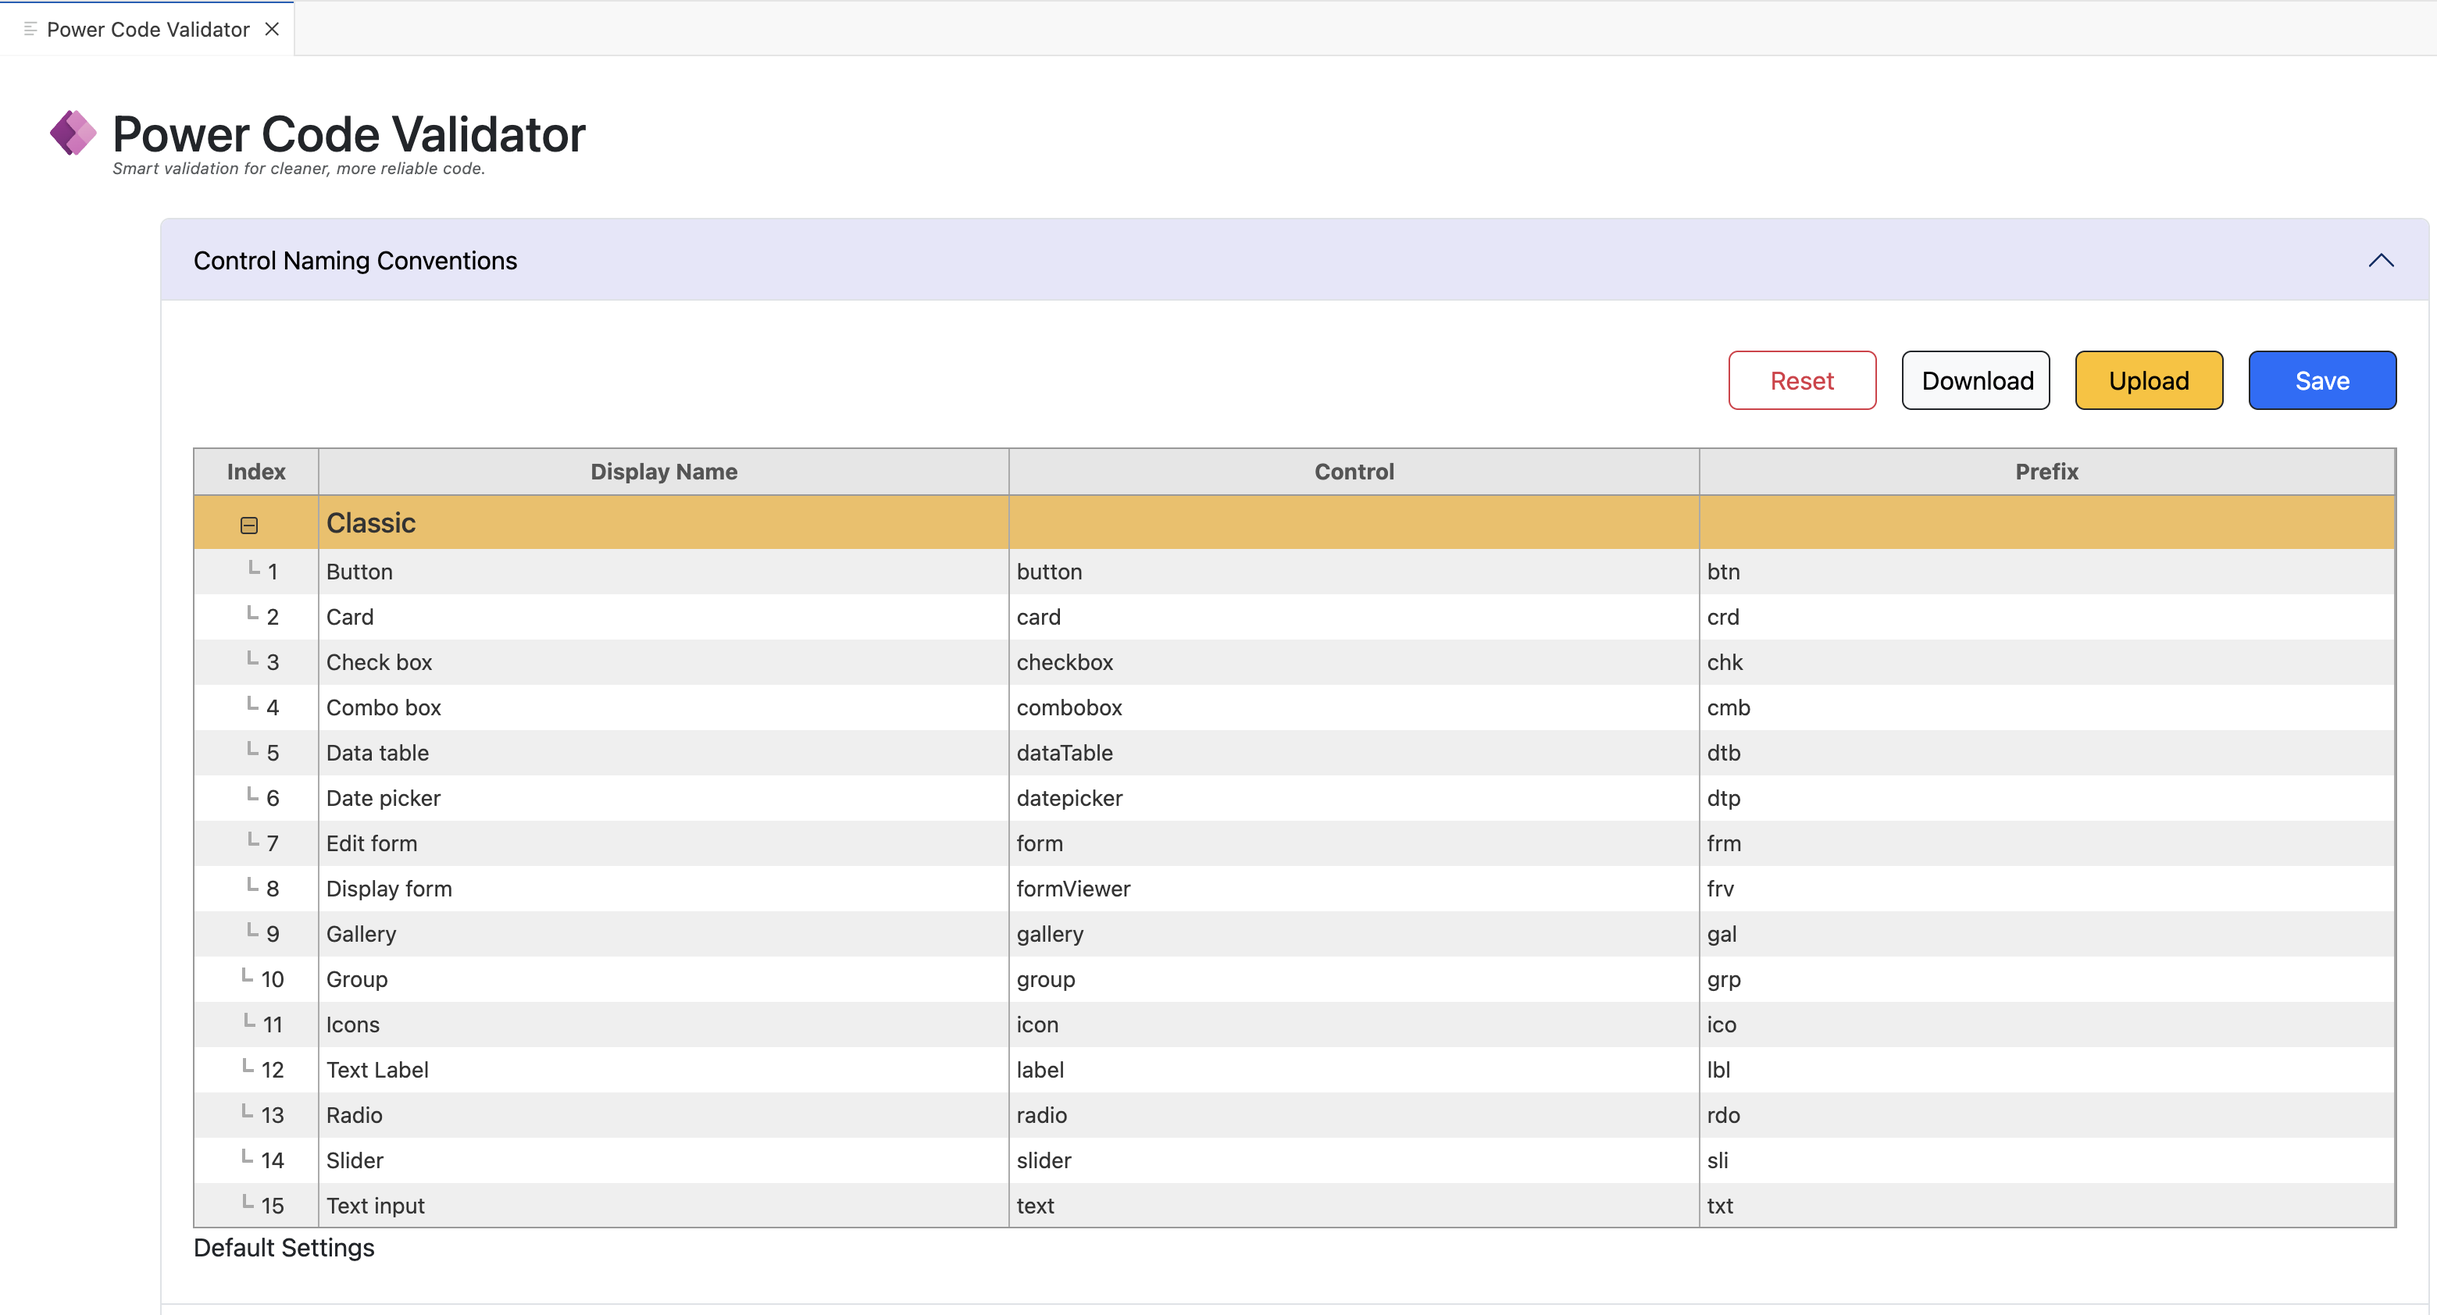
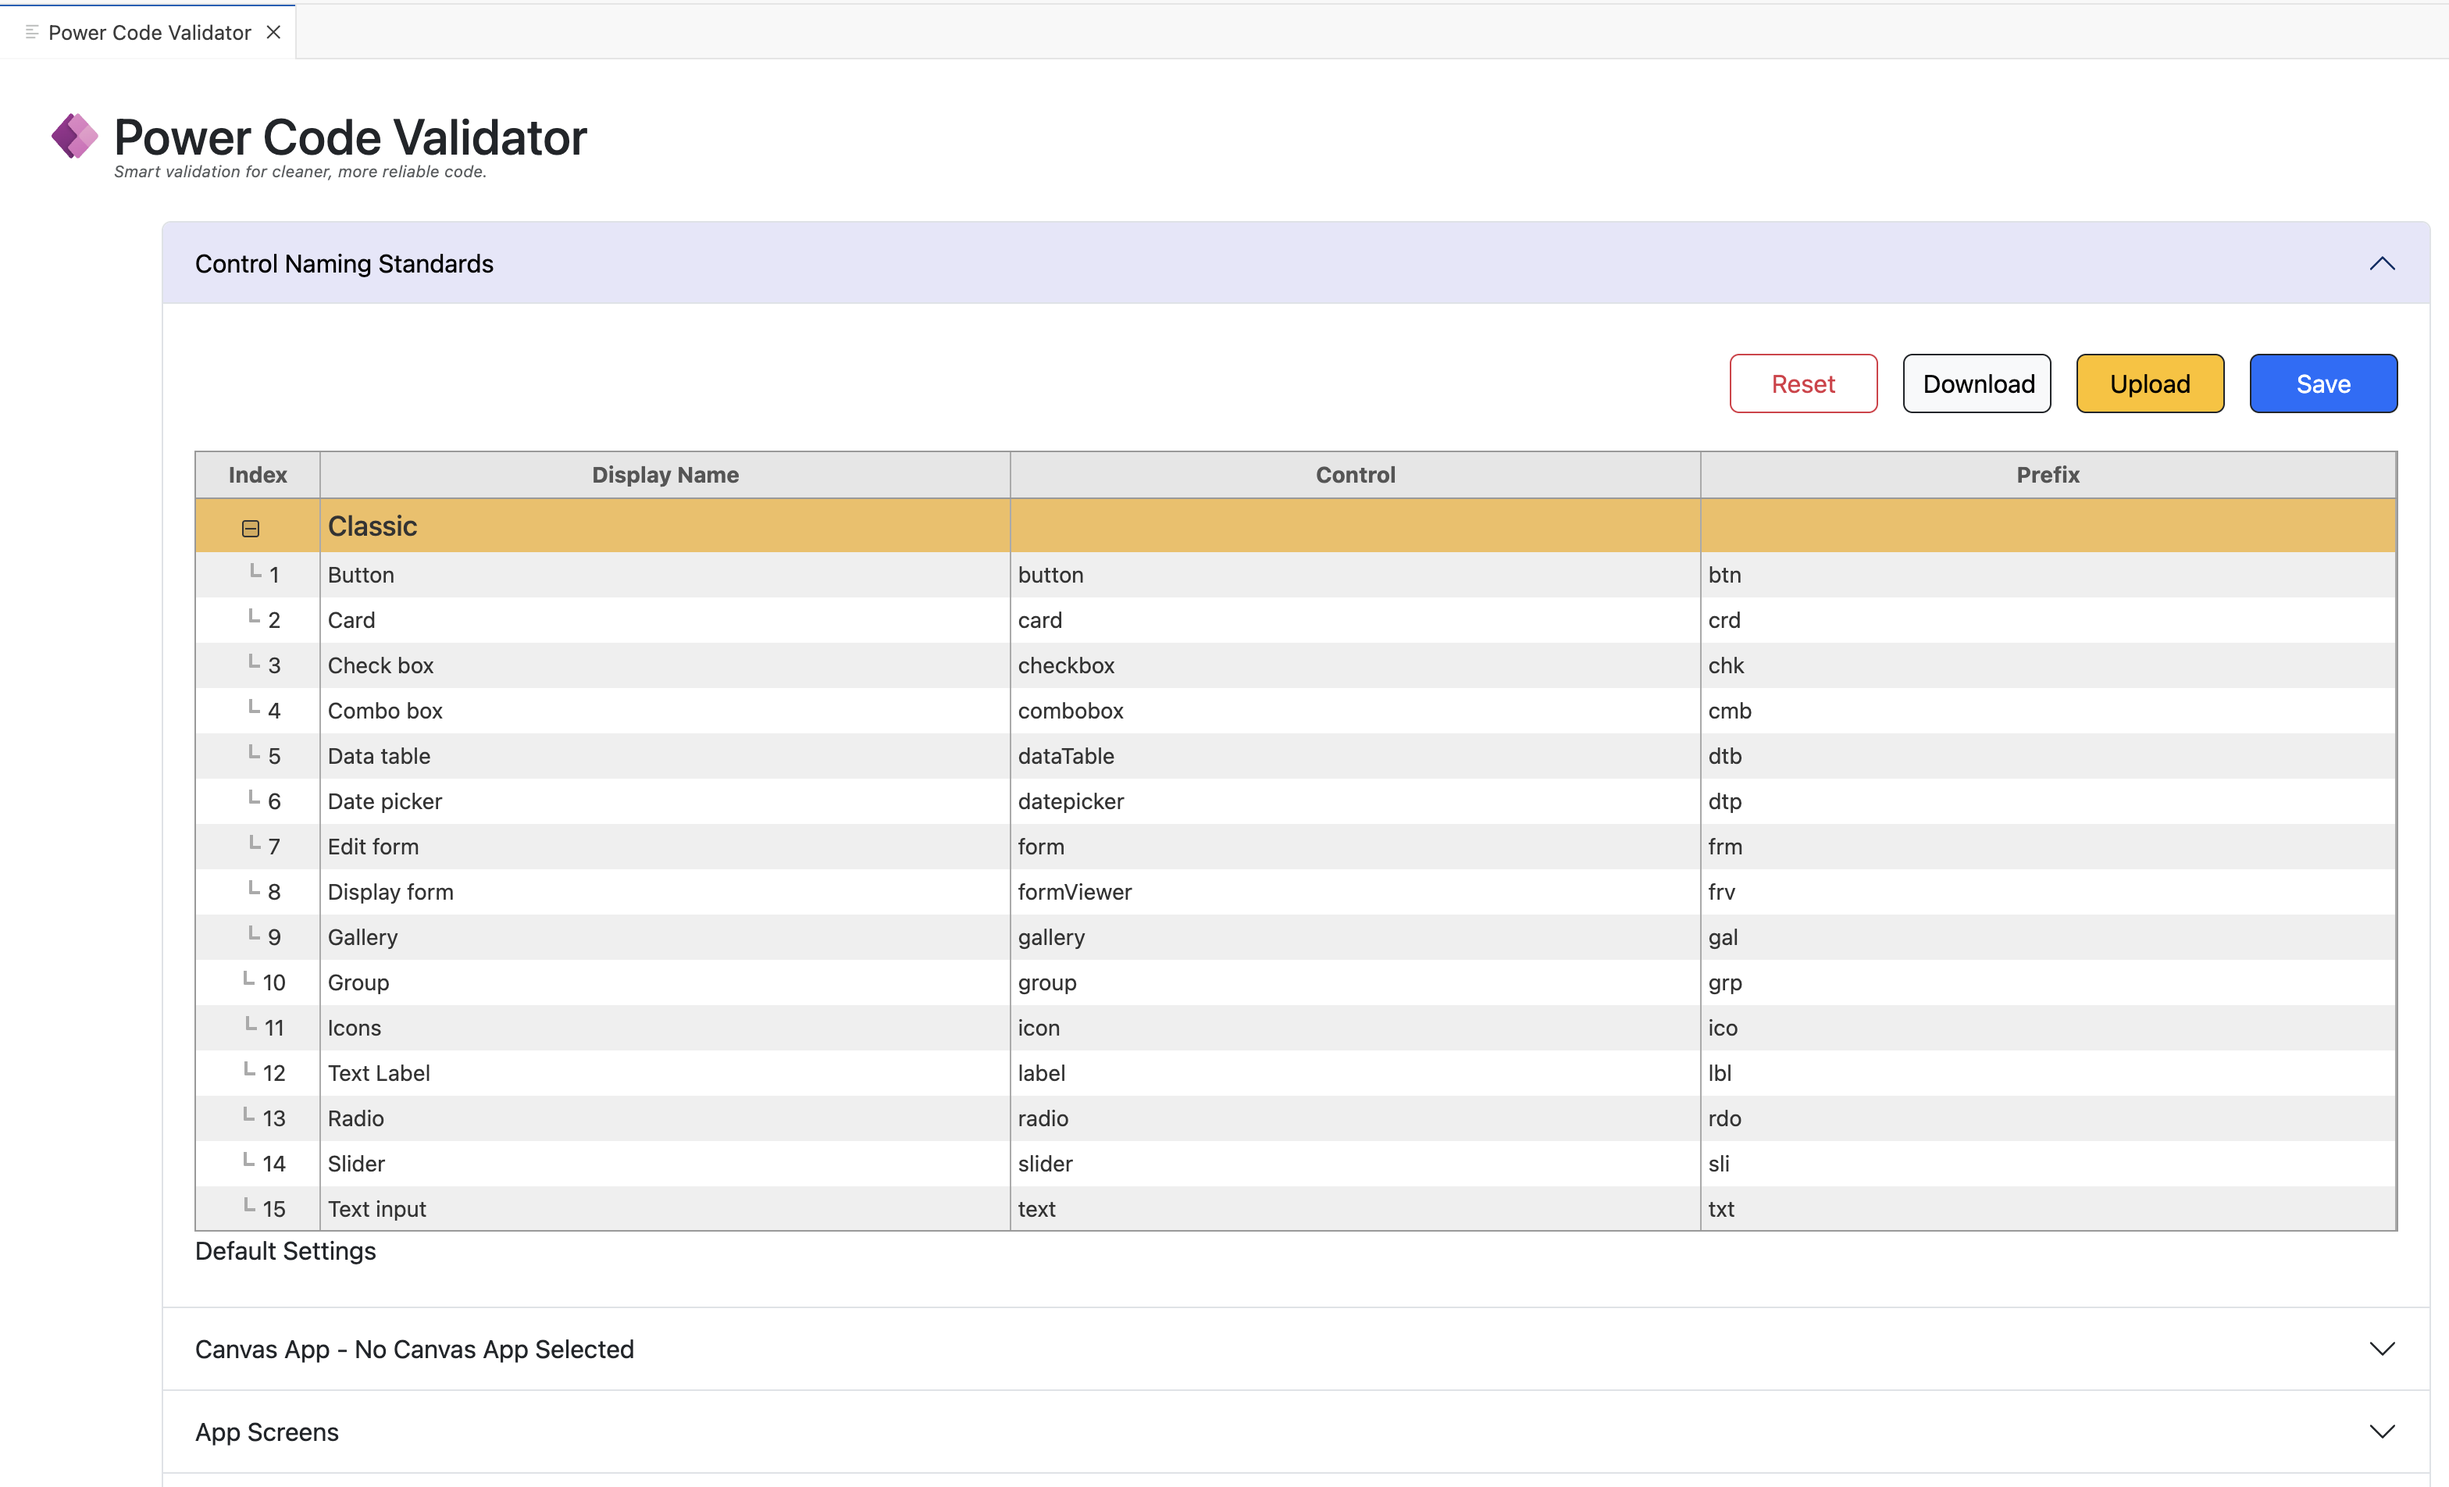
Updated readme.md

Changed region(s): [[0.0, 0.0618, 1.0, 1.0], [0.0, 0.0, 0.1244, 0.0309]]

diff --git a/media/html/panel.html b/media/html/panel.html
@@ -30,7 +30,7 @@
                     <button id="btnSectionOne" class="accordion-button collapsed" type="button"
                         data-bs-toggle="collapse" data-bs-target="#collapseOne" aria-expanded="false"
                         aria-controls="collapseOne">
-                        Control Naming Conventions
+                        Control Naming Standards
                     </button>
                 </h2>
                 <div id="collapseOne" class="accordion-collapse collapse" aria-labelledby="sectionOne"

diff --git a/README.md b/README.md
@@ -8,7 +8,40 @@ Power Code Validator is a Visual Studio Code extension that helps enforce naming
 - ⚡ Provides quick feedback directly inside VS Code
 - 📂 Customizable configuration for project-specific naming rules
 - 🚀 Helps maintain consistency and best practices across large Canvas Apps
-- 📊 Reduces manual code review effort by automating validations
+- 📊 Reduces manual code review effort by automating validations 
+
+
+## Code Validation in Action
+
+The Power Code Validator makes it easy to identify naming and coding standard issues in your Canvas Apps.  From the main screen, you can quickly review all controls, variables, and prefixes against the configured project standards.
+
+![initialscreen](images/screen1.png)
+
+<br>
+
+The **Control Name Standards** screen allows you to configure and verify the naming prefixes used for each control type in your Canvas Apps.  By maintaining consistent prefixes, your project remains clean, standardized, and easier to maintain.
+ 
+![Control Name Standards](images/screen2.png)
+
+<br>
+
+The Canvas App Selection screen provides a list of available apps from the environment. Choose the app to run validation against, ensuring that code and naming standards are applied to the correct project.
+
+![Canvas App Selection](images/screen3.png)
+
+<br>
+
+View list of all the screens contained within the selected Canvas App.  This provides a clear overview of the app structure, helping users navigate through screens and apply validations at the correct level.
+
+![App Screens](images/screen4.png)
+
+<br>
+
+The Control Details displays all controls and their associated formulas within the selected screen.  This allows users to validate control naming conventions and verify code consistency according to project standards.
+
+![Control Details](images/screen5.png)
+
+<br>
 
 
 ## Runtime Dependency
